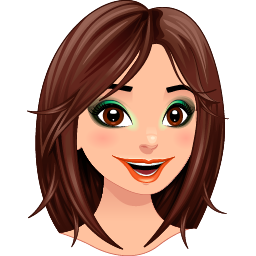
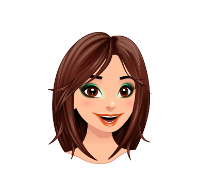
portfolio works and contact form

diff --git a/index.html b/index.html
@@ -43,7 +43,7 @@
       <div class="sidebar-info">
 
         <figure class="avatar-box">
-          <img src="./assets/my_images/My Avatar.png" alt="Lakshme Anantharam">
+          <img src="./assets/my_images/My Avatar.png" alt="Lakshme Anantharam" width="80">
         </figure>
 
         <div class="info-content">
@@ -93,7 +93,8 @@
             </div>
 
           </li>
-
+          
+          <!--
           <li class="contact-item">
 
             <div class="icon-box">
@@ -107,6 +108,7 @@
             </div>
 
           </li>
+          -->
 
           <li class="contact-item">
 
@@ -638,9 +640,13 @@
               <button data-filter-btn>Web design</button>
             </li>
 
+            <!--
+
             <li class="filter-item">
               <button data-filter-btn>Applications</button>
             </li>
+
+            -->
 
             <li class="filter-item">
               <button data-filter-btn>Graphic design</button>
@@ -650,9 +656,11 @@
               <button data-filter-btn>Illustrations</button>
             </li>
 
+            <!--
             <li class="filter-item">
               <button data-filter-btn>Video editing</button>
             </li>
+            -->
 
             <li class="filter-item">
               <button data-filter-btn>Animations</button>
@@ -682,9 +690,11 @@
                 <button data-select-item>Web design</button>
               </li>
 
+              <!--
               <li class="select-item">
                 <button data-select-item>Applications</button>
               </li>
+              -->
 
               <li class="select-item">
                 <button data-select-item>Graphic design</button>
@@ -694,9 +704,11 @@
                 <button data-select-item>Illustrations</button>
               </li>
 
+              <!--
               <li class="select-item">
                 <button data-select-item>Video editing</button>
               </li>
+              -->
 
               <li class="select-item">
                 <button data-select-item>Animations</button>
@@ -730,6 +742,42 @@
               </a>
             </li>
 
+            <li class="project-item  active" data-filter-item data-category="graphic design">
+              <a href="https://www.behance.net/gallery/90912369/PLASMA-ad-posters" target="_blank">
+
+                <figure class="project-img">
+                  <div class="project-item-icon-box">
+                    <ion-icon name="eye-outline"></ion-icon>
+                  </div>
+
+                  <img src="./assets/my_images/GraphicDesign_Projects/7 Plasma Poster.png" alt="plasma" loading="lazy">
+                </figure>
+
+                <h3 class="project-title">Plasma - Ad Posters</h3>
+
+                <p class="project-category">Graphic design</p>
+
+              </a>
+            </li>
+
+            <li class="project-item  active" data-filter-item data-category="illustrations">
+              <a href="https://www.behance.net/gallery/95414915/Digital-Illustrations" target="_blank">
+
+                <figure class="project-img">
+                  <div class="project-item-icon-box">
+                    <ion-icon name="eye-outline"></ion-icon>
+                  </div>
+
+                  <img src="./assets/my_images/Illustration_Projects/1 Book DigitalPainting.png" alt="book" loading="lazy">
+                </figure>
+
+                <h3 class="project-title">Book - Digital Painting</h3>
+
+                <p class="project-category">Illustrations</p>
+
+              </a>
+            </li>
+
             <li class="project-item  active" data-filter-item data-category="web design">
               <a href="https://www.behance.net/gallery/93597813/Web-Layout-Design_VOYLLA" target="_blank">
 
@@ -744,6 +792,24 @@
                 <h3 class="project-title">Voylla</h3>
 
                 <p class="project-category">Web design</p>
+
+              </a>
+            </li>
+
+            <li class="project-item  active" data-filter-item data-category="illustrations">
+              <a href="https://www.behance.net/gallery/95414915/Digital-Illustrations" target="_blank">
+
+                <figure class="project-img">
+                  <div class="project-item-icon-box">
+                    <ion-icon name="eye-outline"></ion-icon>
+                  </div>
+
+                  <img src="./assets/my_images/Illustration_Projects/2 Kettle DigitalPainting.png" alt="kettle" loading="lazy">
+                </figure>
+
+                <h3 class="project-title">Kettle - Digital Painting</h3>
+
+                <p class="project-category">Illustrations</p>
 
               </a>
             </li>
@@ -766,7 +832,25 @@
               </a>
             </li>
 
-            <li class="project-item  active" data-filter-item data-category="applications">
+            <li class="project-item  active" data-filter-item data-category="illustrations">
+              <a href="https://www.behance.net/gallery/95414915/Digital-Illustrations" target="_blank">
+
+                <figure class="project-img">
+                  <div class="project-item-icon-box">
+                    <ion-icon name="eye-outline"></ion-icon>
+                  </div>
+
+                  <img src="./assets/my_images/Illustration_Projects/3 WFH DigitalIllustration.png" alt="wfh" loading="lazy">
+                </figure>
+
+                <h3 class="project-title">WFH - Digital Illustration</h3>
+
+                <p class="project-category">Illustrations</p>
+
+              </a>
+            </li>
+
+            <li class="project-item  active" data-filter-item data-category="graphic design">
               <a href="https://www.behance.net/gallery/95233919/Brand-Guidelines_PLASMA-INDUSTRIES" target="_blank">
 
                 <figure class="project-img">
@@ -777,99 +861,189 @@
                   <img src="./assets/my_images/GraphicDesign_Projects/1 Plasma BrandGuide.png" alt="plasma" loading="lazy">
                 </figure>
 
-                <h3 class="project-title">Plasma</h3>
+                <h3 class="project-title">Plasma - Brand Guidelines</h3>
 
                 <p class="project-category">Graphic design</p>
 
               </a>
             </li>
 
-            <li class="project-item  active" data-filter-item data-category="web design">
-              <a href="#" target="_blank">
+            <li class="project-item  active" data-filter-item data-category="graphic design">
+              <a href="https://www.behance.net/gallery/95353605/HERA-Web-Banners" target="_blank">
 
                 <figure class="project-img">
                   <div class="project-item-icon-box">
                     <ion-icon name="eye-outline"></ion-icon>
                   </div>
 
-                  <img src="./assets/images/project-5.png" alt="dsm." loading="lazy">
+                  <img src="./assets/my_images/GraphicDesign_Projects/2 Hera WebBanner.png" alt="hera" loading="lazy">
                 </figure>
 
-                <h3 class="project-title">DSM.</h3>
+                <h3 class="project-title">Hera - Web Banner</h3>
 
-                <p class="project-category">Web design</p>
+                <p class="project-category">Graphic design</p>
 
               </a>
             </li>
 
-            <li class="project-item  active" data-filter-item data-category="web design">
-              <a href="#" target="_blank">
+            <li class="project-item  active" data-filter-item data-category="graphic design">
+              <a href="https://www.behance.net/gallery/90912737/Magazine-Cover" target="_blank">
 
                 <figure class="project-img">
                   <div class="project-item-icon-box">
                     <ion-icon name="eye-outline"></ion-icon>
                   </div>
 
-                  <img src="./assets/images/project-6.png" alt="metaspark" loading="lazy">
+                  <img src="./assets/my_images/GraphicDesign_Projects/3 Plasma MagazineCover.png" alt="plasma" loading="lazy">
                 </figure>
 
-                <h3 class="project-title">MetaSpark</h3>
+                <h3 class="project-title">AIGIS - Magazine Cover</h3>
 
-                <p class="project-category">Web design</p>
+                <p class="project-category">Graphic design</p>
 
               </a>
             </li>
 
-            <li class="project-item  active" data-filter-item data-category="web development">
-              <a href="#" target="_blank">
+            <li class="project-item  active" data-filter-item data-category="animations">
+              <a href="https://www.behance.net/gallery/99385221/Animated-Web-Banner_FERRERO-ROCHER" target="_blank">
 
                 <figure class="project-img">
                   <div class="project-item-icon-box">
                     <ion-icon name="eye-outline"></ion-icon>
                   </div>
 
-                  <img src="./assets/images/project-7.png" alt="summary" loading="lazy">
+                  <img src="./assets/my_images/Animation_Projects/1 Ferrero BannerAnimation.png" alt="ferrero" loading="lazy">
                 </figure>
 
-                <h3 class="project-title">Summary</h3>
+                <h3 class="project-title">Ferrero Rocher - Web Banner</h3>
 
-                <p class="project-category">Web development</p>
+                <p class="project-category">Animation</p>
 
               </a>
             </li>
 
-            <li class="project-item  active" data-filter-item data-category="applications">
-              <a href="#" target="_blank">
+            <li class="project-item  active" data-filter-item data-category="illustrations">
+              <a href="https://www.behance.net/gallery/95414915/Digital-Illustrations" target="_blank">
 
                 <figure class="project-img">
                   <div class="project-item-icon-box">
                     <ion-icon name="eye-outline"></ion-icon>
                   </div>
 
-                  <img src="./assets/images/project-8.jpg" alt="task manager" loading="lazy">
+                  <img src="./assets/my_images/Illustration_Projects/4 Nature DigitalPainting.png" alt="nature" loading="lazy">
                 </figure>
 
-                <h3 class="project-title">Task Manager</h3>
+                <h3 class="project-title">Nature - Digital Painting</h3>
 
-                <p class="project-category">Applications</p>
+                <p class="project-category">Illustrations</p>
 
               </a>
             </li>
 
-            <li class="project-item  active" data-filter-item data-category="web development">
-              <a href="#" target="_blank">
+            <li class="project-item  active" data-filter-item data-category="graphic design">
+              <a href="https://www.behance.net/gallery/90908901/PLASMA-Logo-design-Branding" target="_blank">
 
                 <figure class="project-img">
                   <div class="project-item-icon-box">
                     <ion-icon name="eye-outline"></ion-icon>
                   </div>
 
-                  <img src="./assets/images/project-9.png" alt="arrival" loading="lazy">
+                  <img src="./assets/my_images/GraphicDesign_Projects/4 Plasma LogoDesign.png" alt="plasma" loading="lazy">
                 </figure>
 
-                <h3 class="project-title">Arrival</h3>
+                <h3 class="project-title">Plasma - Logo Design</h3>
 
-                <p class="project-category">Web development</p>
+                <p class="project-category">Graphic design</p>
+
+              </a>
+            </li>
+
+            <li class="project-item  active" data-filter-item data-category="animations">
+              <a href="https://www.behance.net/gallery/149373893/Consumer-vs-Creator-Kid-Animation" target="_blank">
+
+                <figure class="project-img">
+                  <div class="project-item-icon-box">
+                    <ion-icon name="eye-outline"></ion-icon>
+                  </div>
+
+                  <img src="./assets/my_images/Animation_Projects/2 Consumer vs Creator Animation.png" alt="ConsumerCreator" loading="lazy">
+                </figure>
+
+                <h3 class="project-title">Consumer v/s Creator - Animation</h3>
+
+                <p class="project-category">Animation</p>
+
+              </a>
+            </li>
+
+            <li class="project-item  active" data-filter-item data-category="graphic design">
+              <a href="https://www.behance.net/gallery/90913227/Product-manual" target="_blank">
+
+                <figure class="project-img">
+                  <div class="project-item-icon-box">
+                    <ion-icon name="eye-outline"></ion-icon>
+                  </div>
+
+                  <img src="./assets/my_images/GraphicDesign_Projects/5 Plasma ProductManual.png" alt="plasma" loading="lazy">
+                </figure>
+
+                <h3 class="project-title">Plasma - Product Manual</h3>
+
+                <p class="project-category">Graphic design</p>
+
+              </a>
+            </li>
+
+            <li class="project-item  active" data-filter-item data-category="graphic designs">
+              <a href="https://www.behance.net/gallery/90974599/Tri-Fold-Brochure" target="_blank">
+
+                <figure class="project-img">
+                  <div class="project-item-icon-box">
+                    <ion-icon name="eye-outline"></ion-icon>
+                  </div>
+
+                  <img src="./assets/my_images/GraphicDesign_Projects/6 Plasma Brochure.png" alt="plasma" loading="lazy">
+                </figure>
+
+                <h3 class="project-title">Plasma - Trifold Brochure</h3>
+
+                <p class="project-category">Graphic Design</p>
+
+              </a>
+            </li>
+
+            <li class="project-item  active" data-filter-item data-category="illustrations">
+              <a href="https://www.behance.net/gallery/95414915/Digital-Illustrations" target="_blank">
+
+                <figure class="project-img">
+                  <div class="project-item-icon-box">
+                    <ion-icon name="eye-outline"></ion-icon>
+                  </div>
+
+                  <img src="./assets/my_images/Illustration_Projects/5 FatherDaughter DigitalIllustration.png" alt="kidpainting" loading="lazy">
+                </figure>
+
+                <h3 class="project-title">Kid Painting - Digital Illustration</h3>
+
+                <p class="project-category">Illustrations</p>
+
+              </a>
+            </li>
+
+            <li class="project-item  active" data-filter-item data-category="animations">
+              <a href="https://www.behance.net/gallery/149374805/Machine-Learning-Animation" target="_blank">
+
+                <figure class="project-img">
+                  <div class="project-item-icon-box">
+                    <ion-icon name="eye-outline"></ion-icon>
+                  </div>
+
+                  <img src="./assets/my_images/Animation_Projects/3 ML Animation.png" alt="ML" loading="lazy">
+                </figure>
+
+                <h3 class="project-title">Machine Learning - Animation</h3>
+
+                <p class="project-category">Animation</p>
 
               </a>
             </li>
@@ -892,7 +1066,7 @@
 
         <section class="contact-form">
 
-          <form action="#" class="form" data-form>
+          <form action="https://formsubmit.co/lakshme.des@gmail.com" method="POST" target="_blank" class="form" data-form>
 
             <div class="input-wrapper">
               <input type="text" name="fullname" class="form-input" placeholder="Your Full name" required data-form-input>
